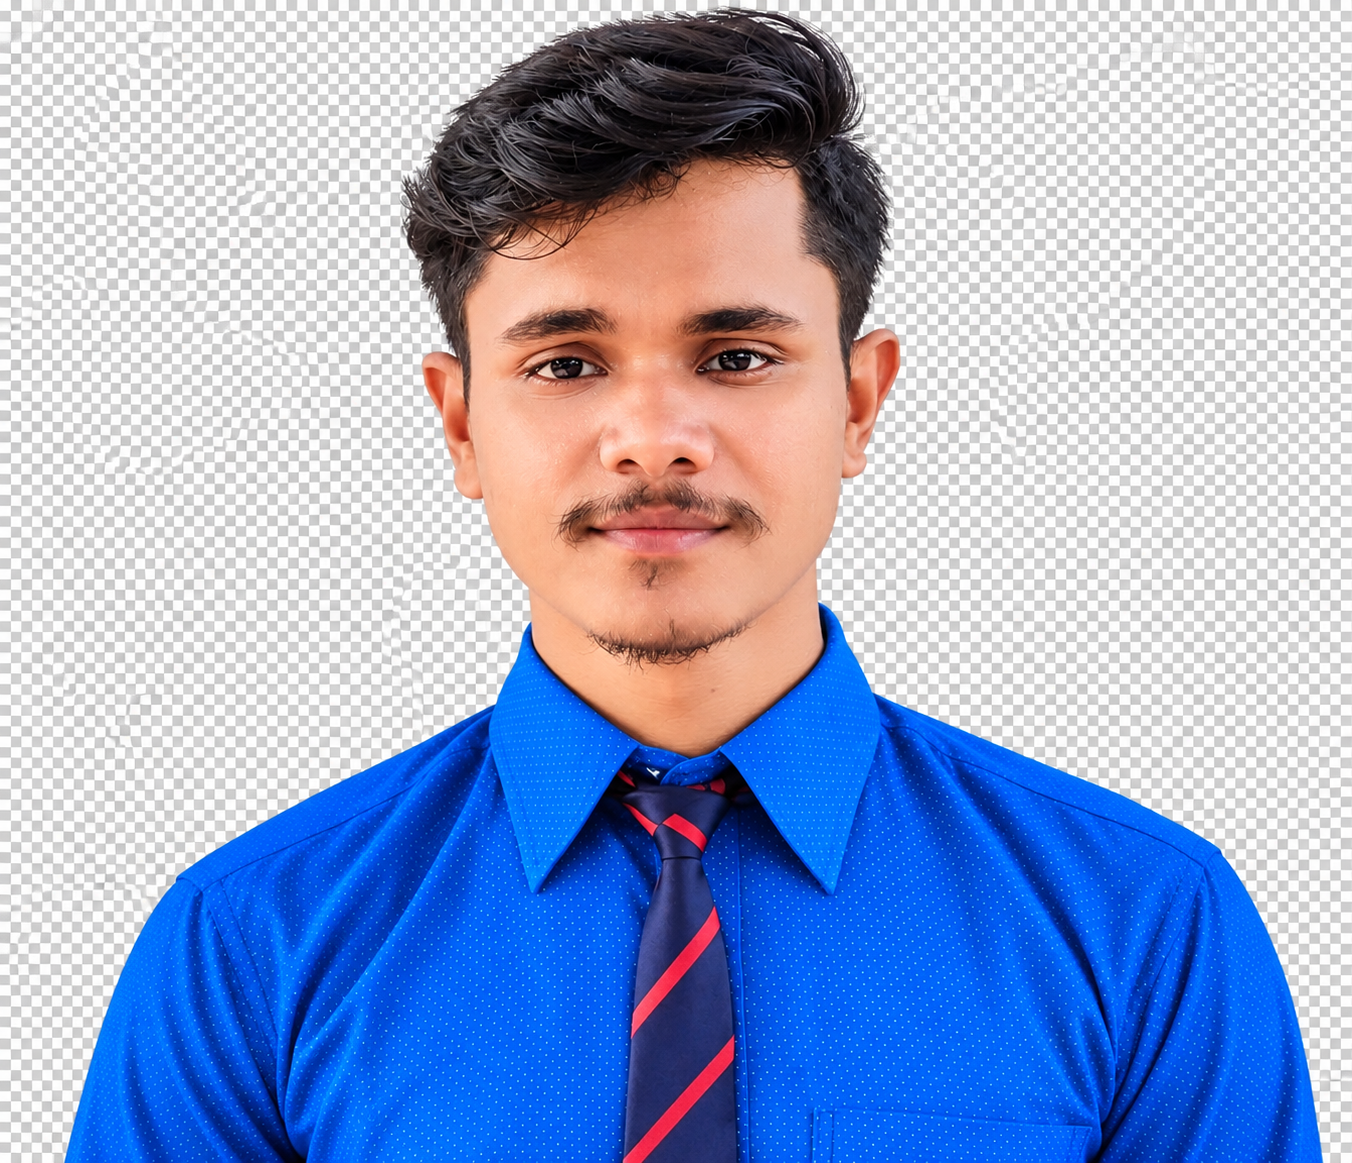
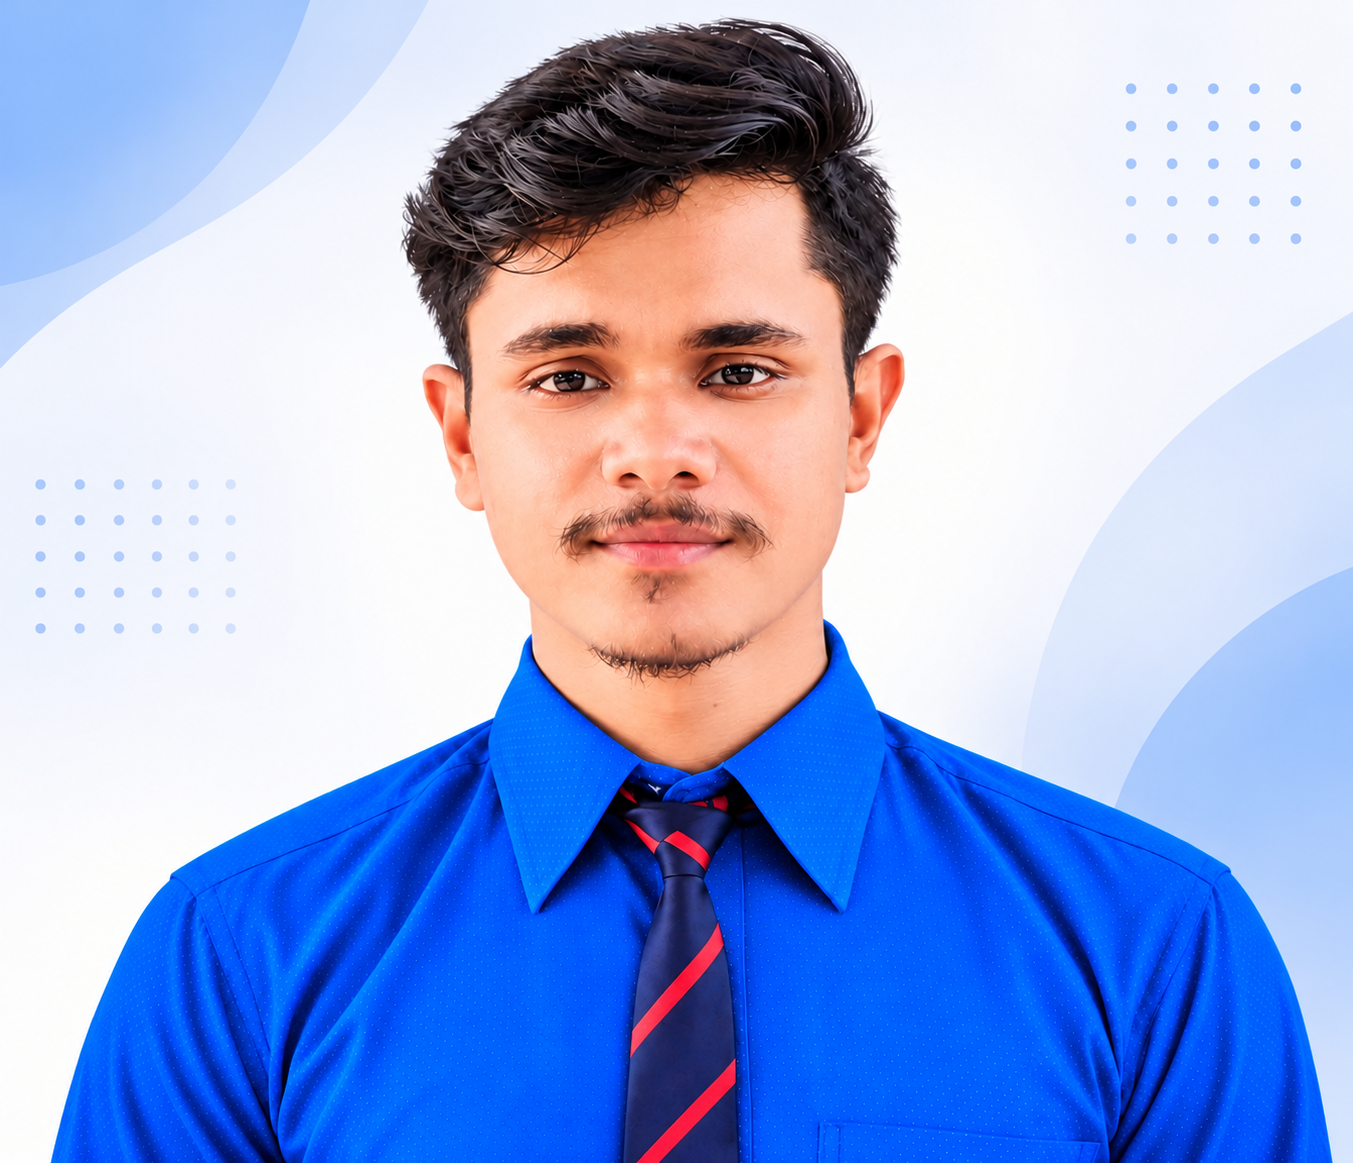
second push needs so much modification

diff --git a/src/config.js b/src/config.js
@@ -1,6 +1,6 @@
 // ===== EDIT YOUR DETAILS HERE =====
 export const CFG = {
-  key: "",
+  key: "7b9cc344-a009-4f87-a0da-3501ab48813e",
 
   // Contact details
   phone: "9732335816", // Replace with your actual mobile number
@@ -16,8 +16,8 @@ export const CFG = {
   wa: "Hi Suman, I found your portfolio and would like to connect.",
 
   // Other details
-  resume: "/resume.pdf",
-  photo: '/images/suman.png',
+  resume: "/SumanKumarNayak.pdf",
+  photo: "/images/suman.png",
 };
 
 export const TITLES = [
@@ -37,12 +37,12 @@ export const SKILLS = [
   {
     t: "Backend",
     d: "APIs and server-side logic.",
-    tags: ["Python", "REST APIs", "Node.js"],
+    tags: ["Python", "REST APIs", "Java", "Spring Boot"],
   },
   {
     t: "Data",
     d: "Reliable storage and queries.",
-    tags: ["SQL", "MySQL", "MongoDB"],
+    tags: ["SQL", "MySQL", "MongoDB", "Spring Data JPA"],
   },
   {
     t: "Workflow",
@@ -74,36 +74,30 @@ export const PROJECTS = [
 
 export const EDU = [
   {
-    when: "Year – Year",
+    when: "2022 – 2024",
     t: "Master of Computer Applications (MCA)",
-    d: "University name, specialisation and notable coursework.",
+    d: "Brainware University , Computational Science.",
     icon: "cap",
   },
   {
-    when: "Year – Year",
-    t: "Bachelor’s Degree",
-    d: "College name and field of study.",
-    icon: "bank",
+    when: "2019 – 2022",
+    t: "Bachelor of Computer Applications (BCA)",
+    d: "Global Group of Instutions and Computer Application.",
+    icon: "cap",
   },
 ];
 
 export const EXP = [
   {
-    when: "Jan 2022 – Present",
-    t: "Your Job Title",
-    d: "Company name",
-    icon: "work",
+    when: "July 2026- Present",
+    t: "Training",
+    d: "Webskitters Academy",
+    icon: "Training",
   },
   {
-    when: "Jun 2021 – Jan 2022",
-    t: "Previous Role",
-    d: "Company or client name",
-    icon: "work",
-  },
-  {
-    when: "Jan 2020 – Jun 2021",
-    t: "Internship or Freelance",
-    d: "What you built and learned",
+    when: "Sept 2025 – Mar 2026",
+    t: "Software Developer Intern ",
+    d: "ConsultIT Technology",
     icon: "work",
   },
 ];

diff --git a/src/index.css b/src/index.css
@@ -180,3 +180,15 @@ section.sec::after{width:200px;height:200px;border-radius:50%;border:2px dashed 
 .art .ln{transform-box:fill-box;transform-origin:0 50%;animation:ln 3s ease-in-out infinite}
 @keyframes ln{0%,100%{transform:scaleX(.35)}50%{transform:scaleX(1)}}
 @media (max-width:860px){.split{grid-template-columns:1fr}.art{order:-1}.art svg{width:min(300px,80%)}}
+
+
+/* mobile navbar + horizontal overflow fix */
+/* html,body{overflow-x:clip;max-width:100%}
+.hero,section.sec,footer{overflow-x:clip}
+nav{left:12px;right:12px;width:auto;max-width:1120px;margin-inline:auto;transform:none}
+.logo{white-space:nowrap}
+.ctrl{flex:none}
+@media (max-width:720px){
+  nav{padding:8px 10px 8px 16px}
+  .logo{font-size:1rem;min-width:0;overflow:hidden;text-overflow:ellipsis}
+} */

diff --git a/src/components/Education.jsx b/src/components/Education.jsx
@@ -4,7 +4,7 @@ import { Cap, Bank } from './Icons.jsx';
 import { EDU } from '../config.js';
 export default function Education() {
   return (
-    <Section id="education" title="Education" sub="Add your institutions and years in src/config.js.">
+    <Section id="education" title="Education" sub="Educational Qualification">
       <div className="split">
         <div className="timeline">
           {EDU.map(e => (
